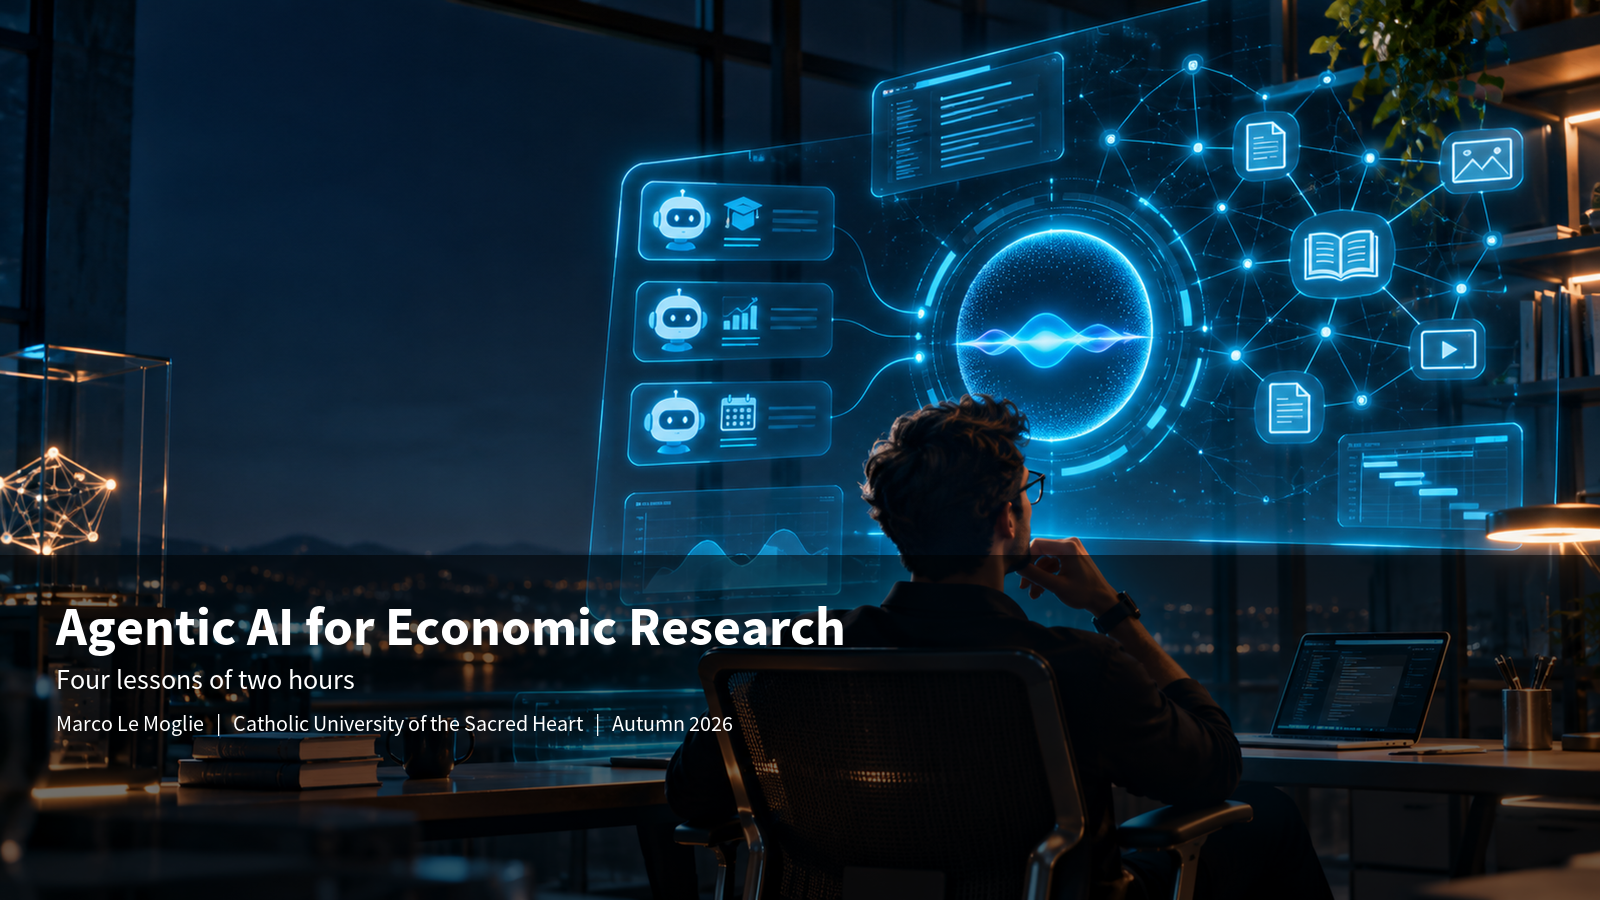
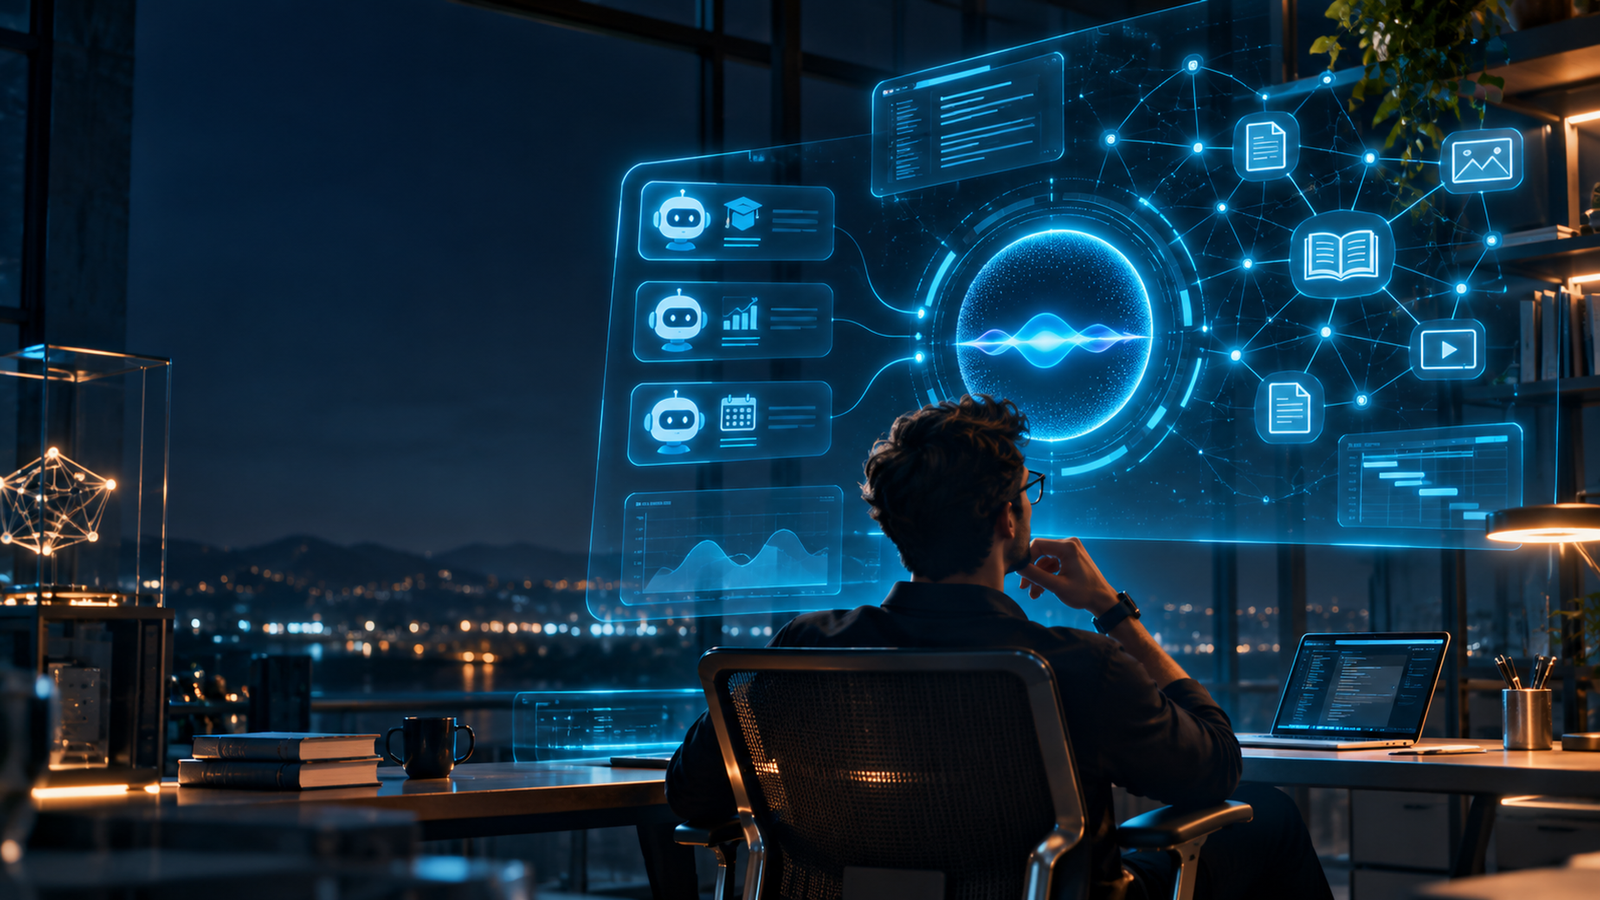
fix(readme): use the cover photo with no text or band

diff --git a/README.md b/README.md
@@ -113,7 +113,7 @@ Theme file is `lesson2/preamble.tex`. It loads the Lesson 1 theme, then the Less
 
 | Path | What it is |
 |------|------------|
-| `banner.png` | Header image at the top of this README. Same bottom band as the lesson covers. |
+| `banner.png` | Header image at the top of this README. The Lesson 2 cover, with no text. |
 | `covers/` | Full-bleed covers for the four lessons. Lessons 3 and 4 are not taught yet. |
 | `lesson1/screens/` | Screenshots and vendor images used in Lesson 1. |
 | `lesson1/charts/data/` | CSV behind the pgfplots charts. |
